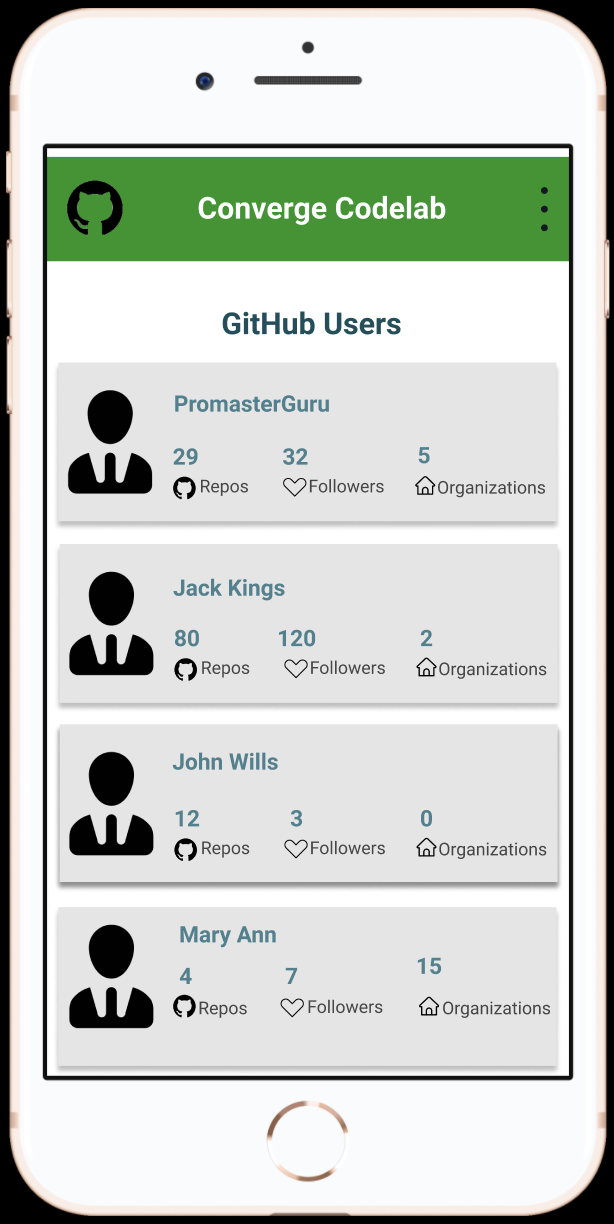
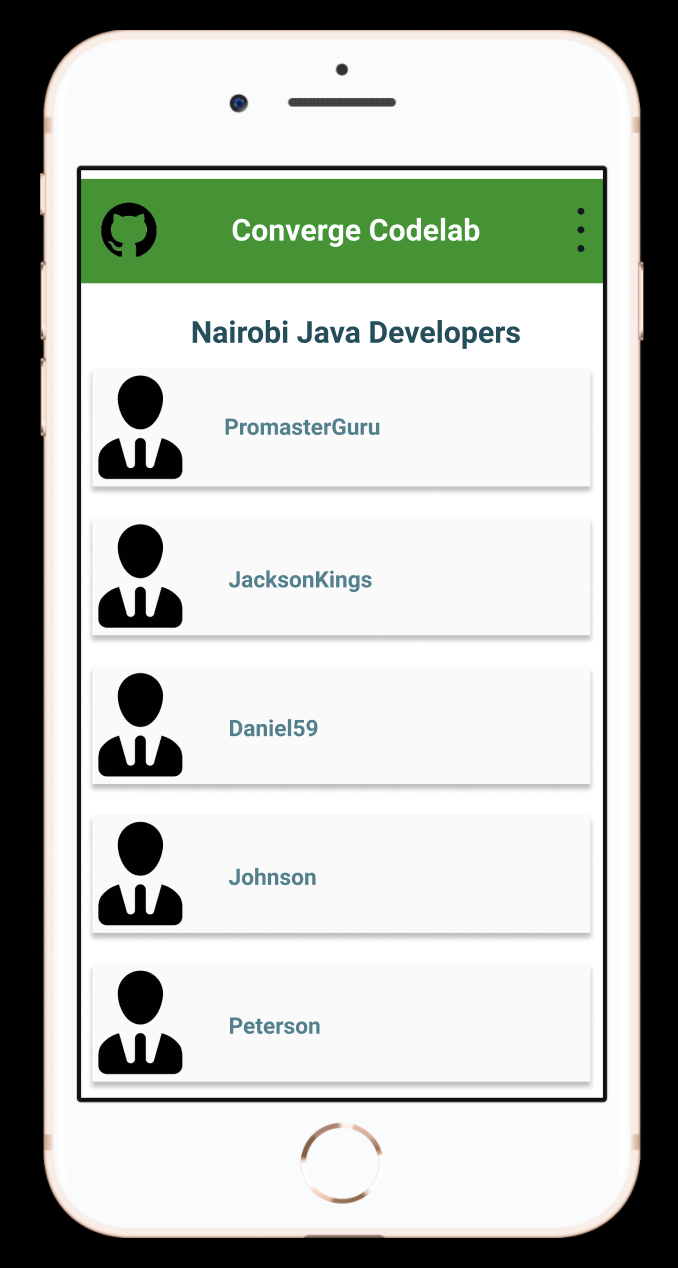
bug(fix-repo): Fix repo setup to align with the LMS output
- Change UI/UX design
- Update readme
- Update repo name

[Delivers #155738437]

diff --git a/README.md b/README.md
@@ -1,22 +1,23 @@
 # ConvergeCodelab
 
-Android Application for retrieving Github users
+Android Application that displays a list Nairobi Java Developers
 
 # Wireframes
 
-There are two wireframes in the wireframe folder displaying both static and interaction elements.
+All the wireframes are designed using **[Figma](https://www.figma.com/)** wireframing tool. The main reason for choosing this tool is that it is easy to learn and allow developers to share wireframes and collect feedback, in real time or asynchronously, by simply sharing a link.
 
-**[Github Users mockup](https://user-images.githubusercontent.com/39240075/53099281-878a3a80-3536-11e9-8b5d-2fba055f517c.png)** : Mocks the Github users activity that will be used to display a list of Github users.
+**[List of Nairobi Java Developers mockup](<![image](https://user-images.githubusercontent.com/39240075/53282038-46b34100-3743-11e9-81ed-a72a06b29854.png)>)** :The mockup displays a list of Nairobi Java Developers from Github.
 
-**[Exit App mockup](https://user-images.githubusercontent.com/39240075/53100299-8d811b00-3538-11e9-9650-e6c3681d3b7a.png)** : Mockup for the exit activity.
+**[User profile mockup](<![image](https://user-images.githubusercontent.com/39240075/53282104-364f9600-3744-11e9-9321-2a657493c139.png)>)** : The mockup displays user profile after an item on the list is clicked.
+
+**[Exit App mockup](https://user-images.githubusercontent.com/39240075/53100299-8d811b00-3538-11e9-9650-e6c3681d3b7a.png)** :The mockup displays app exit option.
 
 # App color palettes
 
-| Color Code         | Image                                                                                                          |
-| ------------------ | -------------------------------------------------------------------------------------------------------------- |
-| **Activity Title** | ![image](https://user-images.githubusercontent.com/39240075/53101612-2f096c00-353b-11e9-86c5-9c8b02120318.png) |
-| **App Title**      | ![image](https://user-images.githubusercontent.com/39240075/53101631-392b6a80-353b-11e9-8b15-cf1da2a7f325.png) |
-| **Frame Title**    | ![image](https://user-images.githubusercontent.com/39240075/53101649-40527880-353b-11e9-8c30-f09a26975f2a.png) |
-| **Toolbar Title**  | ![image](https://user-images.githubusercontent.com/39240075/53101664-46485980-353b-11e9-808f-09e57982b8d1.png) |
-| **User details**   | ![image](https://user-images.githubusercontent.com/39240075/53101683-506a5800-353b-11e9-93ef-326be5bc70eb.png) |
-| **Usernames**      | ![image](https://user-images.githubusercontent.com/39240075/53101695-58c29300-353b-11e9-98f8-bba4fbec5630.png) |
+| Color Code           | Image                                                                                                          |
+| -------------------- | -------------------------------------------------------------------------------------------------------------- |
+| **Activity Title**   | ![image](https://user-images.githubusercontent.com/39240075/53101612-2f096c00-353b-11e9-86c5-9c8b02120318.png) |
+| **App Title**        | ![image](https://user-images.githubusercontent.com/39240075/53101631-392b6a80-353b-11e9-8b15-cf1da2a7f325.png) |
+| **Item list layout** | ![image](https://user-images.githubusercontent.com/39240075/53282218-c0e4c500-3745-11e9-82f9-7653b68eee81.png) |
+| **Toolbar Title**    | ![image](https://user-images.githubusercontent.com/39240075/53101664-46485980-353b-11e9-808f-09e57982b8d1.png) |
+| **Usernames**        | ![image](https://user-images.githubusercontent.com/39240075/53101695-58c29300-353b-11e9-98f8-bba4fbec5630.png) |
